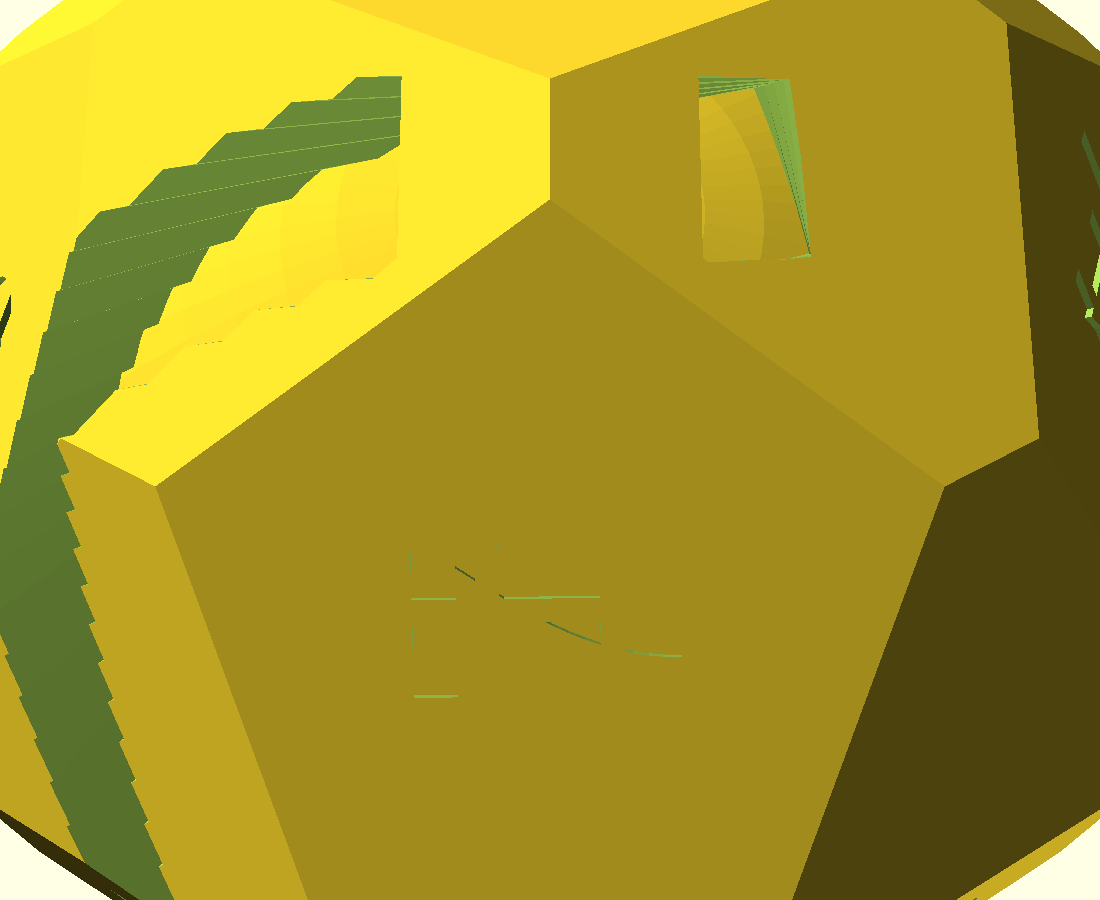
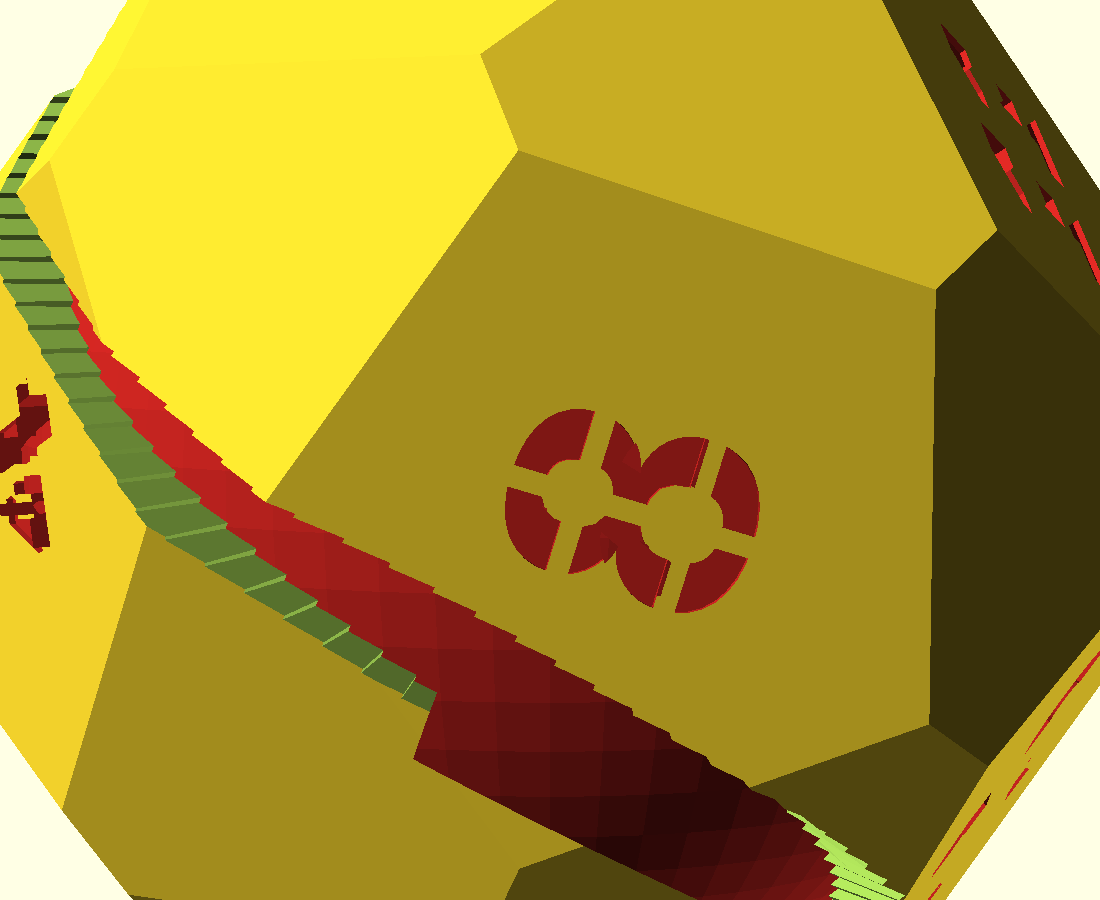
fix(ovodyo): reframe slot-window so the red interior reads
OpenCSG at a look-into-the-band angle (CGAL washed the red out). Also
note chrome-steel vs stainless for the magnet tip. Refs #768.

diff --git a/designs/ovodyo/README.md b/designs/ovodyo/README.md
@@ -62,7 +62,7 @@ until [#604](https://github.com/shaiss/print-bench/issues/604) lands a retained 
 
 ![Helical window broadside](previews/slot-window.png)
 
-*The 10 mm helical slot as a window into the interior (red is preview colour).*
+*Looking into the 10 mm helical window — red interior is preview colour.*
 
 ![Base drivetrain in the truss](previews/base-mech-in-situ.png)
 
@@ -253,8 +253,9 @@ stages** (tapping while pouring fights the funnel). A folded-paper funnel with
 the tip cut to ~3 mm keeps shot off the desk — the Ø3.2 mm port is only about
 one and a half pellets wide, so shot will jam and arch. A strong magnet held
 against the pocket wall settles an arch and drags shot around through a couple
-of mm of plastic — worth a try (steel shot only). Press a Ø5 mm silicone bumper
-into each of the four foot recesses.
+of mm of plastic — worth a try (chrome-steel shot only; stainless bearing balls
+won't follow a magnet). Press a Ø5 mm silicone bumper into each of the four
+foot recesses.
 
 **Heft (v0 interim):** the shells are light for their size — the reference's
 mass lives in the drive that [#604](https://github.com/shaiss/print-bench/issues/604) brings. A **packed** pour of shot
